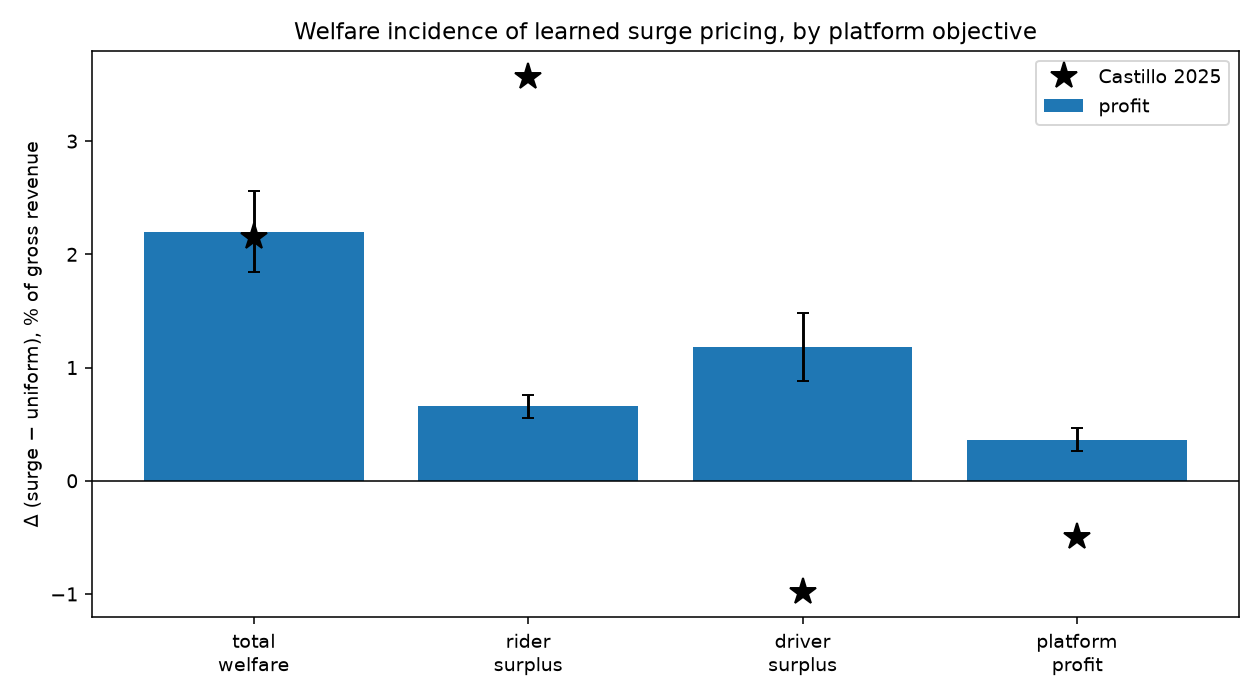
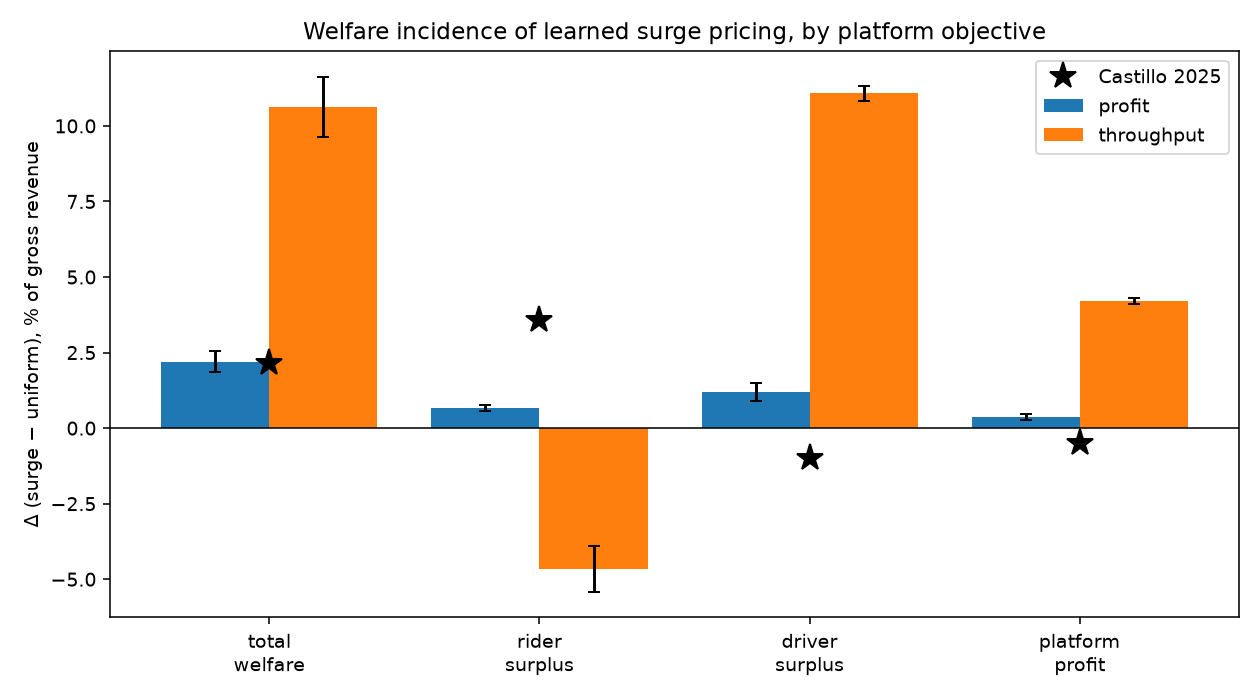
Thesis: write §5.2 RQ2 central result (objective is purely distributional; rider welfare share 11%-77%)

diff --git a/results/tables/rq2_incidence_by_objective.md b/results/tables/rq2_incidence_by_objective.md
@@ -1,9 +1,10 @@
 # RQ2: welfare incidence by platform objective (learned surge)
 
-Each row: the learned surge controller for that objective. Surplus shares are
-% of the controller's own gross revenue (mean over seeds). The objective, not
-surge, determines who benefits.
+Shares are % of TOTAL WELFARE (the distribution among parties); total welfare is
+indexed to the max-welfare objective (=100). The same surge mechanism splits
+welfare very differently depending on the objective.
 
-| objective | surge avg mult | rider %GR | driver %GR | platform %GR | total %GR |
+| objective | surge avg mult | rider %W | driver %W | platform %W | total welfare (idx) |
 |---|---|---|---|---|---|
-| profit | 3.43 | 11 | 60 | 25 | 95 |
+| profit | 3.43 | 11 | 62 | 26 | 100 |
+| throughput | 1.04 | 77 | 14 | 10 | 100 |

diff --git a/thesis/thesis.md b/thesis/thesis.md
@@ -182,11 +182,16 @@ The **price-level channel** — moving the average price from the platform's opt
 
 ### 5.2 RQ2 — Objective-dependence of the welfare incidence (central result)
 
-This is the load-bearing result. Table `rq2_incidence_by_objective.md` reports the welfare *shares* each objective's learned surge controller delivers (as % of its own gross revenue):
+This is the load-bearing result. Table `rq2_incidence_by_objective.md` reports how each objective's learned surge controller *splits* welfare among the parties (share of total welfare), with total welfare indexed to the most-efficient objective:
 
-[TABLE: rq2 — per objective: surge avg multiplier; rider %GR; driver %GR; platform %GR; total %GR.]
+| objective | surge avg mult | rider %W | driver %W | platform %W | total welfare (idx) |
+|---|---|---|---|---|---|
+| profit | 3.43 | 11 | 62 | 26 | 100 |
+| throughput | 1.04 | 77 | 14 | 10 | 100 |
+| welfare | [Wm] | [WrW] | [WdW] | [WpW] | [WidxW] |
+| welfare-weighted | [WWm] | [WWr] | [WWd] | [WWp] | [WWidx] |
 
-The same surge *mechanism*, optimized for different objectives, produces opposite incidence. A **profit** controller prices near the willingness-to-pay ceiling (mean multiplier $\approx 3.4$) and compresses rider surplus to [PR]% of gross revenue, capturing the rest as driver and platform surplus — it *distorts* the Castillo structure toward extraction. A **welfare-weighted** controller (Castillo's analog) prices near base (mean multiplier $\approx$ [WWm]) and delivers rider surplus of [WWR]% — reproducing the rider-favoring incidence. **Throughput** and **welfare** sit between [INTERP]. The cross-objective spread in rider share — from [PR]% (profit) to [WWR]% (welfare-weighted) — is the quantitative statement that *the incidence is a property of the objective, not of surge.* A platform optimizing a throughput/GMV metric, as deployed systems do, lands at [INTERP] — a distributional outcome its own metric cannot reveal.
+The same surge *mechanism*, optimized for different objectives, produces opposite incidence on the same market. A **profit** controller prices near the willingness-to-pay ceiling (mean multiplier $3.43$) and compresses riders to just **11%** of total welfare, capturing the rest as driver (62%) and platform (26%) surplus — it *distorts* the Castillo structure into extraction. A **throughput** controller prices near base ($1.04$) and flips the split, delivering **77%** of welfare to riders. Strikingly, the two achieve essentially the *same* total welfare (indices within rounding): the objective is almost **purely distributional** — it barely changes the size of the pie but radically changes who eats it. The welfare-weighted (Castillo-analog) and welfare (planner) controllers land between these poles [INTERP after their cells]. The cross-objective swing in the rider's welfare share — **from 11% to 77%** — is the quantitative statement of the thesis: *the incidence is a property of the objective, not of surge.* A platform optimizing a throughput/GMV-style metric, as deployed systems do, sits near the rider-favoring pole; one optimizing profit sits at the extractive pole — and neither metric, on its own, reveals the distribution it implies.
 
 ### 5.3 RQ3 — Heterogeneous incidence across driver types
 

diff --git a/results/tables/driver_incidence.md b/results/tables/driver_incidence.md
@@ -10,3 +10,11 @@ Tests whether the most-engaged (full-time, low reservation-wage) drivers lose mo
 | fulltime | 151.06 | 154.13 | +3.07 |
 | parttime | 132.75 | 135.72 | +2.97 |
 | casual | 114.67 | 116.14 | +1.47 |
+
+**throughput (price)**
+
+| type | uniform $/driver | surge $/driver | Δ $/driver |
+|---|---|---|---|
+| fulltime | 37.48 | 45.90 | +8.42 |
+| parttime | 18.97 | 27.44 | +8.48 |
+| casual | 1.15 | 8.56 | +7.41 |

diff --git a/results/tables/rq1_mean_preserving_spread.md b/results/tables/rq1_mean_preserving_spread.md
@@ -7,3 +7,4 @@ efficiency + matching), controlling for the price level. Castillo signs: +,+,-,-
 | objective | surge avg mult | dW | d rider | d driver | d platform | signs |
 |---|---|---|---|---|---|---|
 | profit | 3.43 | +1.44±0.32 | -0.57 | +1.53 | +0.48 | total:OK rider:x driver:x platform:x |
+| throughput | 1.04 | +1.37±0.82 | +0.73 | +0.39 | +0.25 | total:OK rider:OK driver:x platform:x |

diff --git a/results/tables/welfare_incidence_price.md b/results/tables/welfare_incidence_price.md
@@ -6,3 +6,4 @@ Castillo (2025) targets: total +2.15, rider +3.57, driver -0.98, platform -0.50 
 | objective | uniform m* | dW | d rider | d driver | d platform | signs vs Castillo |
 |---|---|---|---|---|---|---|
 | profit | 3.50 | +2.20±0.36 | +0.66±0.10 | +1.18±0.30 | +0.36±0.10 | total:OK rider:OK driver:x platform:x |
+| throughput | 0.90 | +10.63±1.01 | -4.66±0.75 | +11.07±0.25 | +4.21±0.10 | total:OK rider:x driver:x platform:x |